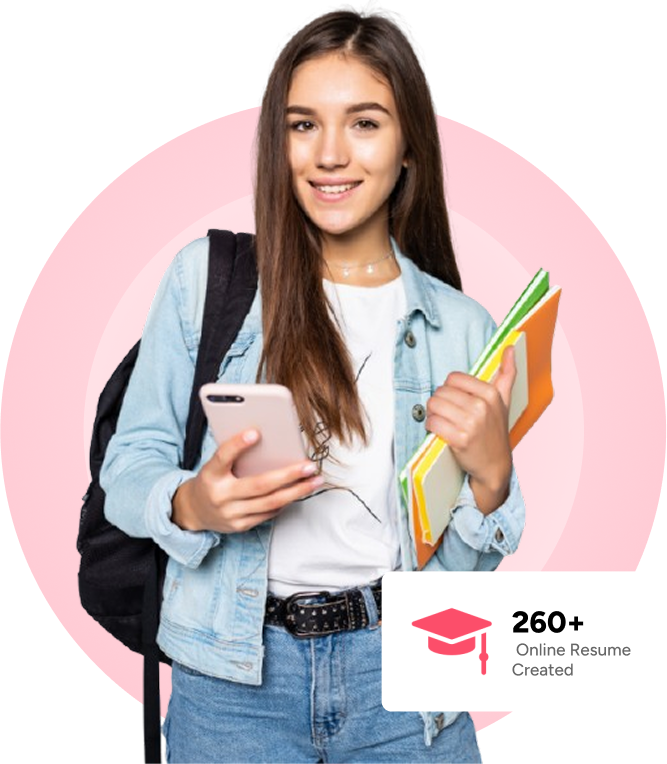
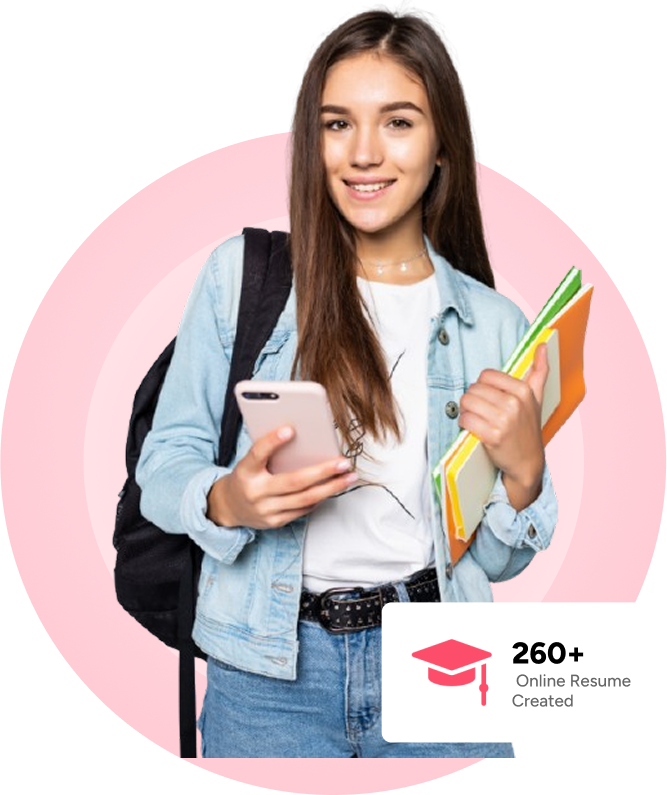
Added reverse-U pink underline style in hero section

diff --git a/style.css b/style.css
@@ -1,3 +1,4 @@
+/* ===================== Reset & Base ===================== */
 * {
   margin: 0;
   padding: 0;
@@ -10,14 +11,14 @@ body {
   color: #333;
 }
 
-/* Container */
+/* ===================== Container ===================== */
 .container {
   width: 90%;
   max-width: 1200px;
   margin: 0 auto;
 }
 
-/* Navbar */
+/* ===================== Navbar ===================== */
 header {
   background: #fff;
   padding: 15px 0;
@@ -57,15 +58,15 @@ nav a {
   font-weight: 600;
 }
 
-/* Hero Section */
+/* ===================== Hero Section ===================== */
 .hero {
   background: linear-gradient(90deg, #fff0f0 0%, #ffd6e0 100%);
-  padding: 100px 0; /* Increased padding for bigger image */
+  padding: 100px 0;
 }
 
 .hero-container {
   display: flex;
-  align-items: center;
+  align-items: flex-start;
   justify-content: space-between;
   flex-wrap: wrap;
 }
@@ -84,13 +85,15 @@ nav a {
   color: #ff004f;
 }
 
-/* ✅ Hero Text Paragraphs — neat 4 lines */
 .hero-text p {
-  margin-bottom: 8px;    /* reduced gap between lines */
-  font-size: 1rem;
-  line-height: 1.5;
+  font-size: 14px;
+  font-weight: 300;
+  color: #333;
+  margin-bottom: 8px;
+  line-height: 1.6;
   max-width: 500px;
 }
+
 .hero-buttons .btn {
   display: inline-block;
   padding: 12px 24px;
@@ -99,11 +102,15 @@ nav a {
   text-decoration: none;
   font-weight: 600;
   transition: 0.3s;
+  margin-top: 30px;
+  font-size: 14px;
+  letter-spacing: 0.5px;
 }
 
+/* Updated buttons style */
 .btn.primary {
-  background: #ff004f;
-  color: #fff;
+  background:  #fff;
+  color: #e60045;
 }
 
 .btn.primary:hover {
@@ -111,8 +118,9 @@ nav a {
 }
 
 .btn.secondary {
-  background: #333;
+  background:#ff004f;
   color: #fff;
+  border: 2px solid #ff004f;
 }
 
 .btn.secondary:hover {
@@ -120,7 +128,7 @@ nav a {
   color: #fff;
 }
 
-/* Hero Image */
+/* ===================== Hero Image ===================== */
 .hero-image {
   position: relative;
   flex: 1;
@@ -128,54 +136,94 @@ nav a {
   min-width: 300px;
 }
 
-/* ✅ Hero Image — bigger & pushed to right */
 .hero-image img {
-  width: 500px;          /* increase image size */
+  width: 500px;
   max-width: 100%;
-  transform: translateX(40px); /* push to the right */
+  transform: translateX(40px);
+  margin-left: 10px;
 }
 
-/* Features */
+/* ===================== Features Section ===================== */
 .features {
-  padding: 60px 0;
+  padding: 80px 0;
   text-align: center;
-  background: #f9f9f9;
+  background: #fff5f8;
 }
 
 .features .tag {
-  background: #ffeff5;
+  background: #ffe6f0;
+  color: #ff4f7f;
   border: none;
-  padding: 6px 16px;
- 
-  color:palevioletred !important;
-  font-weight: 600;
+  padding: 6px 20px;
+  border-radius: 5px;
+  font-weight: 500;
+  font-size: 0.85rem;
   margin-bottom: 15px;
+  display: inline-block;
 }
 
-.features h2 {
-  max-width: 700px;
-  margin: 0 auto 40px;
+.features h4 {
+  font-size: 1rem;
+  font-weight: 600;
+  max-width: 800px;
+  margin: 0 auto 50px;
+  color: #333;
+  line-height: 1.4;
 }
 
 .feature-grid {
   display: grid;
-  grid-template-columns: repeat(auto-fit, minmax(240px, 1fr));
-  gap: 20px;
+  grid-template-columns: repeat(auto-fit, minmax(250px, 1fr));
+  gap: 30px;
+  margin-top: 30px;
 }
 
 .feature-card {
   background: #fff;
-  padding: 20px;
-  border-radius: 12px;
-  box-shadow: 0 2px 8px rgba(0,0,0,0.05);
+  padding: 30px 20px;
+  border-radius: 16px;
+  box-shadow: 0 8px 20px rgba(0,0,0,0.05);
+  transition: transform 0.3s, box-shadow 0.3s;
+  display: flex;
+  flex-direction: column;
+  align-items: center;
+  min-height: 320px;
+}
+
+.feature-card:hover {
+  transform: translateY(-8px);
+  box-shadow: 0 14px 28px rgba(0,0,0,0.08);
 }
 
 .feature-card img {
-  width: 100px; /* Increased icon size */
-  margin-bottom: 15px;
+  width: 80px;
+  height: 80px;
+  margin-bottom: 20px;
+  object-fit: contain;
 }
 
-/* Responsive */
+.feature-card h3 {
+  font-size: 1.2rem;
+  font-weight: 600;
+  color: #333;
+  margin-bottom: 10px;
+  text-align: center;
+}
+
+.feature-card p {
+  font-size: 0.95rem;
+  color: #555;
+  line-height: 1.6;
+  text-align: center;
+}
+
+/* ===================== Responsive ===================== */
+@media (max-width: 992px) {
+  .feature-card {
+    min-height: auto;
+  }
+}
+
 @media (max-width: 768px) {
   .hero-container {
     flex-direction: column;
@@ -187,17 +235,23 @@ nav a {
   }
 
   .hero-image img {
-    width: 80%; /* scaled for mobile */
-  }
-
-  .feature-card img {
-    width: 80px;
+    width: 80%;
   }
 
   nav ul {
-    display: none; /* mobile menu optional */
+    display: none;
   }
-}
-.hero-container {
-  align-items: flex-start; /* aligns text top and image top */
+
+  .feature-grid {
+    grid-template-columns: 1fr;
+  }
+
+  .features h4 {
+    font-size: 1.4rem;
+  }
+
+  .feature-card img {
+    width: 70px;
+    height: 70px;
+  }
 }

diff --git a/index.html b/index.html
@@ -33,13 +33,14 @@
   <section class="hero">
     <div class="container hero-container">
      <div class="hero-text">
-  <h1>Your Resume</h1><h1> Deserves A Yes Let’s</h1>
+  <h1>Your Resume</h1>
+  <h1> <span class="double-curved-underline">Deserves A Yes</span> Let’s</h1>
   <h1> Make It Happen</h1>
 
   <p>If your resume isn’t getting responses, it’s time for an upgrade.</p>
-  <p>Get an ATS-optimized resume crafted by HR experts to help you land more interviews.</p>
-  <p>Our resumes are designed to get your foot in the door.</p>
-  <p>Place your name at the top of the shortlist.</p>
+  <p>Get an ATS-optimized resume crafted HR experts to help you</p>
+  <p> land more interviews.Our resumes are designed to get your foot </p>
+  <p>In the door Place your name at the top of the shortlist.</p>
 
   <div class="hero-buttons">
     <a href="#" class="btn primary">RESUME PACKAGES</a>
@@ -49,6 +50,7 @@
 
       <div class="hero-image">
         <img  src="images/girl.png" alt="Hero Student">
+      
       </div>
     </div>
   </section>
